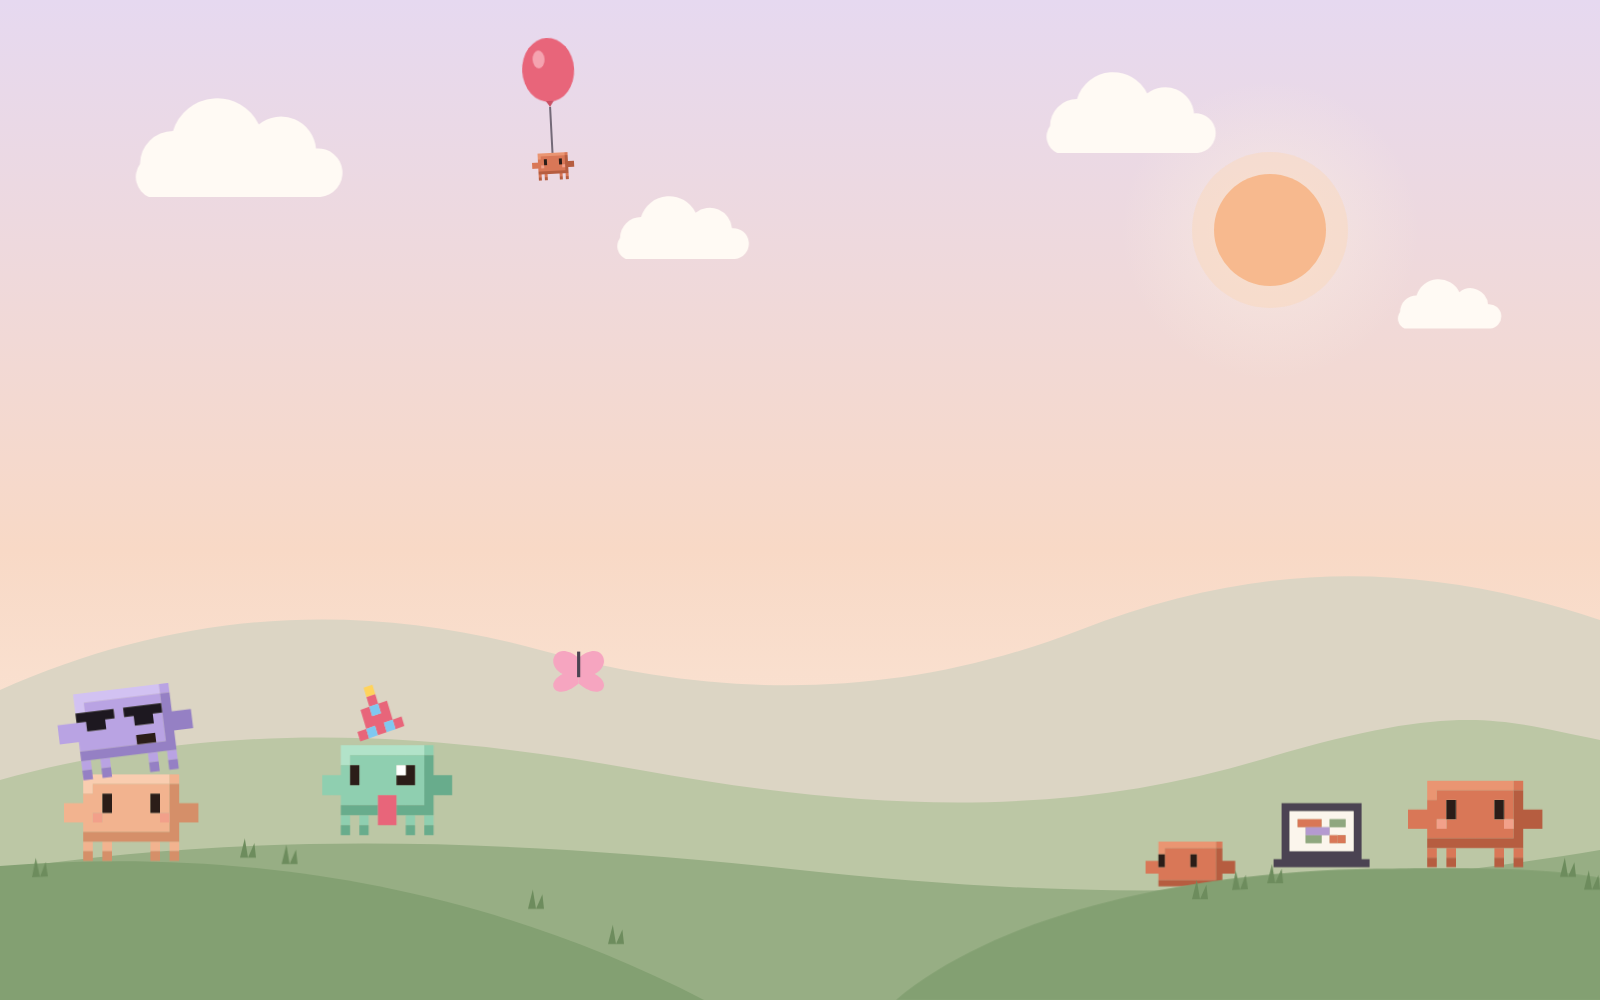
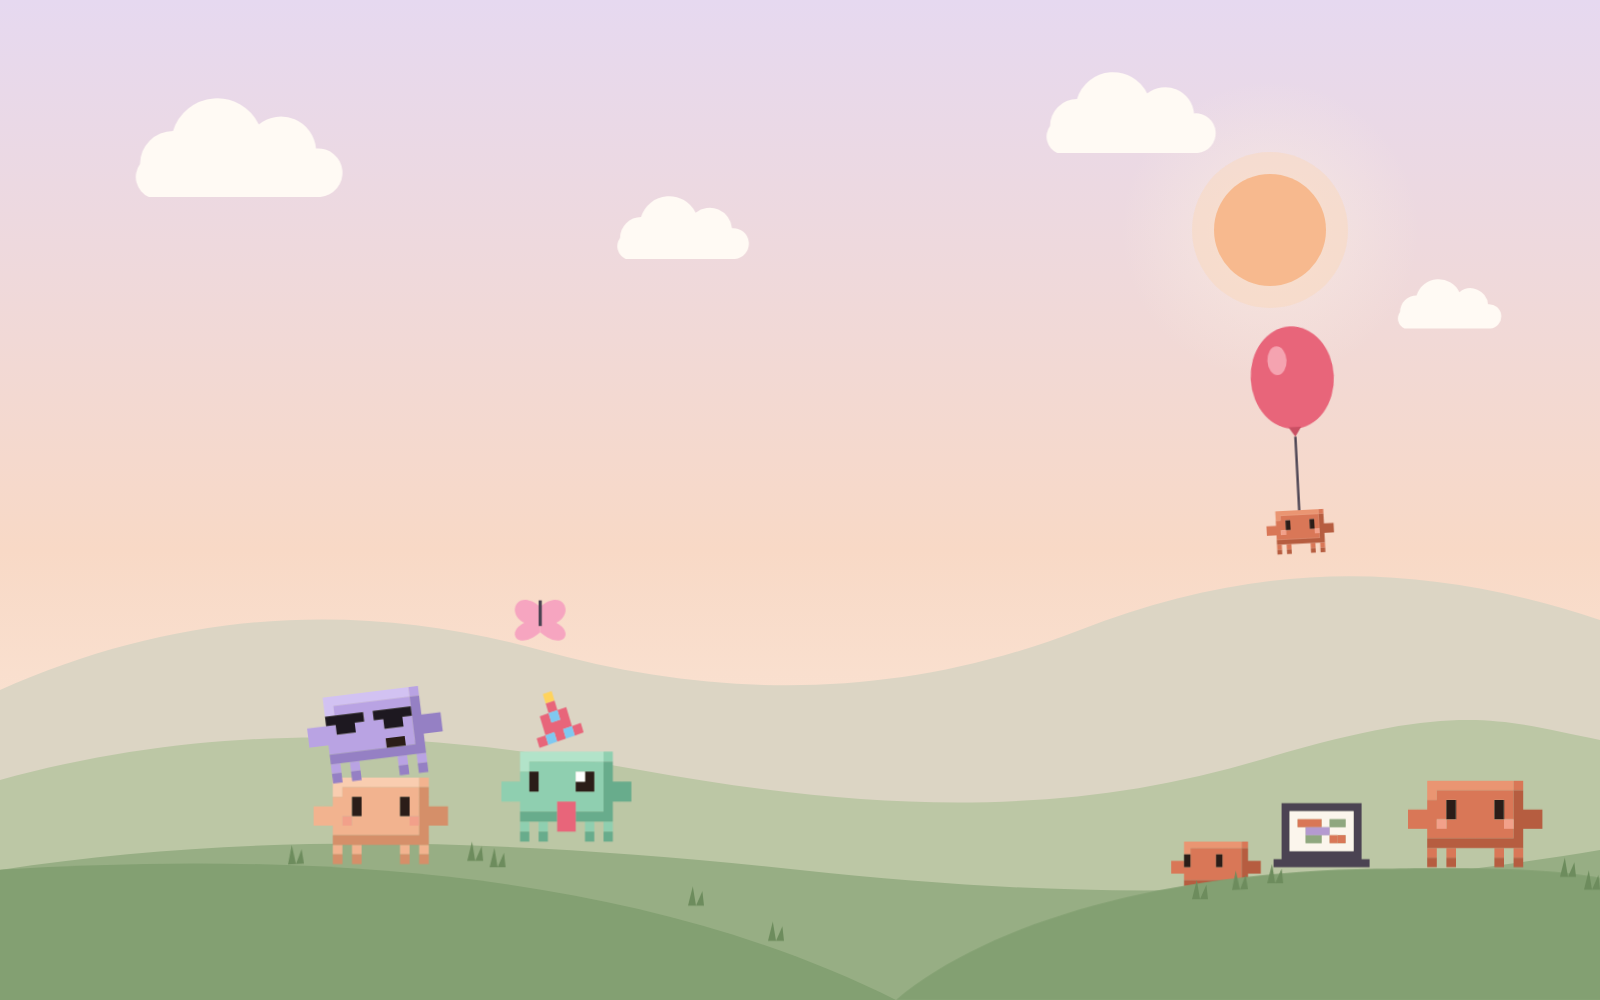
Pixel meadow 0.3.0: move critters clear of the sidebar and chat
The friends' corner now starts past the sidebar's width, and the
balloon rider bobs in the right-hand gap under the moon instead of
drifting across behind the chat.

diff --git a/themes/alif-pixel-meadow/hooks/scene.js b/themes/alif-pixel-meadow/hooks/scene.js
@@ -170,7 +170,7 @@ ${rules(DAY)}
 .zz2{animation-delay:3s}
 .flap{transform-box:fill-box;transform-origin:center;animation:flap .5s ease-in-out infinite}
 .flutter{animation:flutter 7s ease-in-out infinite}
-.balloon{animation:balloon 170s linear infinite}
+.float{animation:float 8s ease-in-out infinite}
 .dangle{transform-box:fill-box;transform-origin:top center;animation:sway 5s ease-in-out infinite}
 .kick{animation:kick 1.2s ease-in-out infinite}
 @keyframes hop{0%,30%,100%{transform:translateY(0)}55%{transform:translateY(-26px)}}
@@ -180,7 +180,7 @@ ${rules(DAY)}
 @keyframes zz{0%{transform:translate(0,0);opacity:0}15%{opacity:1}100%{transform:translate(26px,-60px);opacity:0}}
 @keyframes flap{0%,100%{transform:scaleX(1)}50%{transform:scaleX(.2)}}
 @keyframes flutter{0%,100%{transform:translate(0,0)}25%{transform:translate(40px,-30px)}50%{transform:translate(80px,0)}75%{transform:translate(30px,20px)}}
-@keyframes balloon{from{transform:translateX(0)}to{transform:translateX(-2100px)}}
+@keyframes float{0%,100%{transform:translate(0,0)}50%{transform:translate(-8px,-18px)}}
 @keyframes kick{0%,100%{transform:translateY(0)}50%{transform:translateY(-3px)}}
 @keyframes drift{from{transform:translateX(0)}to{transform:translateX(-1600px)}}
 @keyframes tw{0%,100%{opacity:.9}50%{opacity:.25}}
@@ -215,26 +215,26 @@ export function buildScene() {
   const cx = 880, cy = 488 // critter's top-left
   const tufts = [[770, 556], [792, 552], [975, 548], [990, 556], [745, 562]]
     .map(([x, y], i) => `<path class="tuft sway" style="animation-delay:${i * 0.9}s" d="M${x} ${y}l3-12l2 12l4-9l1 9z"/>`).join('')
-  const leftTufts = [[20, 548], [150, 536], [176, 540], [330, 568], [380, 590]]
+  const leftTufts = [[180, 540], [292, 538], [306, 542], [430, 566], [480, 588]]
     .map(([x, y], i) => `<path class="tuft sway" style="animation-delay:${i * 0.7}s" d="M${x} ${y}l3-12l2 12l4-9l1 9z"/>`).join('')
-  const zeds = [0, 1, 2].map(i => `<g class="zz zz${i}">${sprite(ZED, 292, 470, 4)}</g>`).join('')
+  const zeds = [0, 1, 2].map(i => `<g class="zz zz${i}">${sprite(ZED, 384, 470, 4)}</g>`).join('')
   // the friends' corner: pinned to the bottom-left, clear of the words in the middle
   const left = `
 <svg x="0" y="0" width="100%" height="100%" viewBox="0 0 1000 625" preserveAspectRatio="xMinYMax meet" overflow="visible">
-  <path class="front" d="M-60 625V548C80 528 260 532 440 625z"/>
+  <path class="front" d="M-60 625V548C150 530 380 535 560 625z"/>
   ${leftTufts}
-  <g>${sprite(PLAIN, 40, 484, 6, COATS.peach)}</g>
-  <g class="wobble"><g class="kick">${sprite(SHADES, 40, 430, 6, COATS.lilac)}</g></g>
+  <g>${sprite(PLAIN, 196, 486, 6, COATS.peach)}</g>
+  <g class="wobble"><g class="kick">${sprite(SHADES, 196, 432, 6, COATS.lilac)}</g></g>
   <g class="day"><g class="hop"><g class="squish">
-    ${sprite(DERP, 200, 494, 6, COATS.mint)}
-    <g transform="rotate(-18 236 488)">${sprite(HAT, 200, 458, 6)}</g>
+    ${sprite(DERP, 312, 498, 6, COATS.mint)}
+    <g transform="rotate(-18 348 492)">${sprite(HAT, 312, 462, 6)}</g>
   </g></g></g>
   <g class="night">
-    ${sprite(SLEEPY, 200, 494, 6, COATS.mint)}
-    <g transform="rotate(-18 236 488)">${sprite(HAT, 200, 458, 6)}</g>
+    ${sprite(SLEEPY, 312, 498, 6, COATS.mint)}
+    <g transform="rotate(-18 348 492)">${sprite(HAT, 312, 462, 6)}</g>
     ${zeds}
   </g>
-  <g class="day"><g class="flutter"><g transform="translate(320 440)">
+  <g class="day"><g class="flutter"><g transform="translate(296 408)">
     <g class="flap"><path fill="#f6a5c0" d="M0 0c-14-12-22 4-10 10c-12 6-4 18 10 6z"/><path fill="#f6a5c0" d="M0 0c14-12 22 4 10 10c12 6 4 18-10 6z"/><rect x="-1" y="-4" width="2" height="16" fill="#4b4352"/></g>
   </g></g></g>
 </svg>`
@@ -242,7 +242,12 @@ export function buildScene() {
   const corner = `
 <svg x="0" y="0" width="100%" height="100%" viewBox="0 0 1000 625" preserveAspectRatio="xMaxYMax meet" overflow="visible">
   <defs><radialGradient id="lamp"><stop class="glow" offset="0" stop-opacity=".35"/><stop class="glow" offset="1" stop-opacity="0"/></radialGradient></defs>
-  <g class="peek">${sprite(PEEKER, 712, 578, 4, COATS.orange)}</g>
+  <g class="float"><g transform="translate(806 236)"><g class="dangle">
+    <ellipse cx="0" cy="0" rx="26" ry="32" fill="#e8657a"/><ellipse cx="-9" cy="-11" rx="6" ry="9" fill="#f5a3b0"/>
+    <path d="M-4 31h8l-4 6z" fill="#c94f63"/><path d="M0 37v46" stroke="#4b4352" stroke-width="1.5" fill="none"/>
+    ${sprite(PLAIN, -21, 83, 3, COATS.orange)}
+  </g></g></g>
+  <g class="peek">${sprite(PEEKER, 728, 578, 4, COATS.orange)}</g>
   <path class="front" d="M560 625C620 575 730 545 860 543S990 548 1040 556V625z"/>
   ${tufts}
   <g transform="translate(796 502)">
@@ -279,11 +284,6 @@ export function buildScene() {
   <circle class="sun night" cx="1270" cy="230" r="56" mask="url(#cres)"/>
   <g class="night">${stars}</g>
   <g class="day" opacity=".85"><g class="drift">${big}</g><g class="drift2">${small}</g></g>
-  <g class="balloon"><g transform="translate(1720 70)"><g class="dangle">
-    <ellipse cx="0" cy="0" rx="26" ry="32" fill="#e8657a"/><ellipse cx="-9" cy="-11" rx="6" ry="9" fill="#f5a3b0"/>
-    <path d="M-4 31h8l-4 6z" fill="#c94f63"/><path d="M0 37v46" stroke="#4b4352" stroke-width="1.5" fill="none"/>
-    ${sprite(PLAIN, -21, 83, 3, COATS.orange)}
-  </g></g></g>
   <path class="far" d="M0 690C180 610 360 600 540 650S900 700 1080 630S1420 560 1600 620V1000H0z"/>
   <path class="mid" d="M0 780C220 720 420 730 640 770S1060 820 1260 760S1500 720 1600 740V1000H0z"/>
   <path class="near" d="M0 870C260 830 520 840 800 870S1300 900 1600 850V1000H0z"/>
